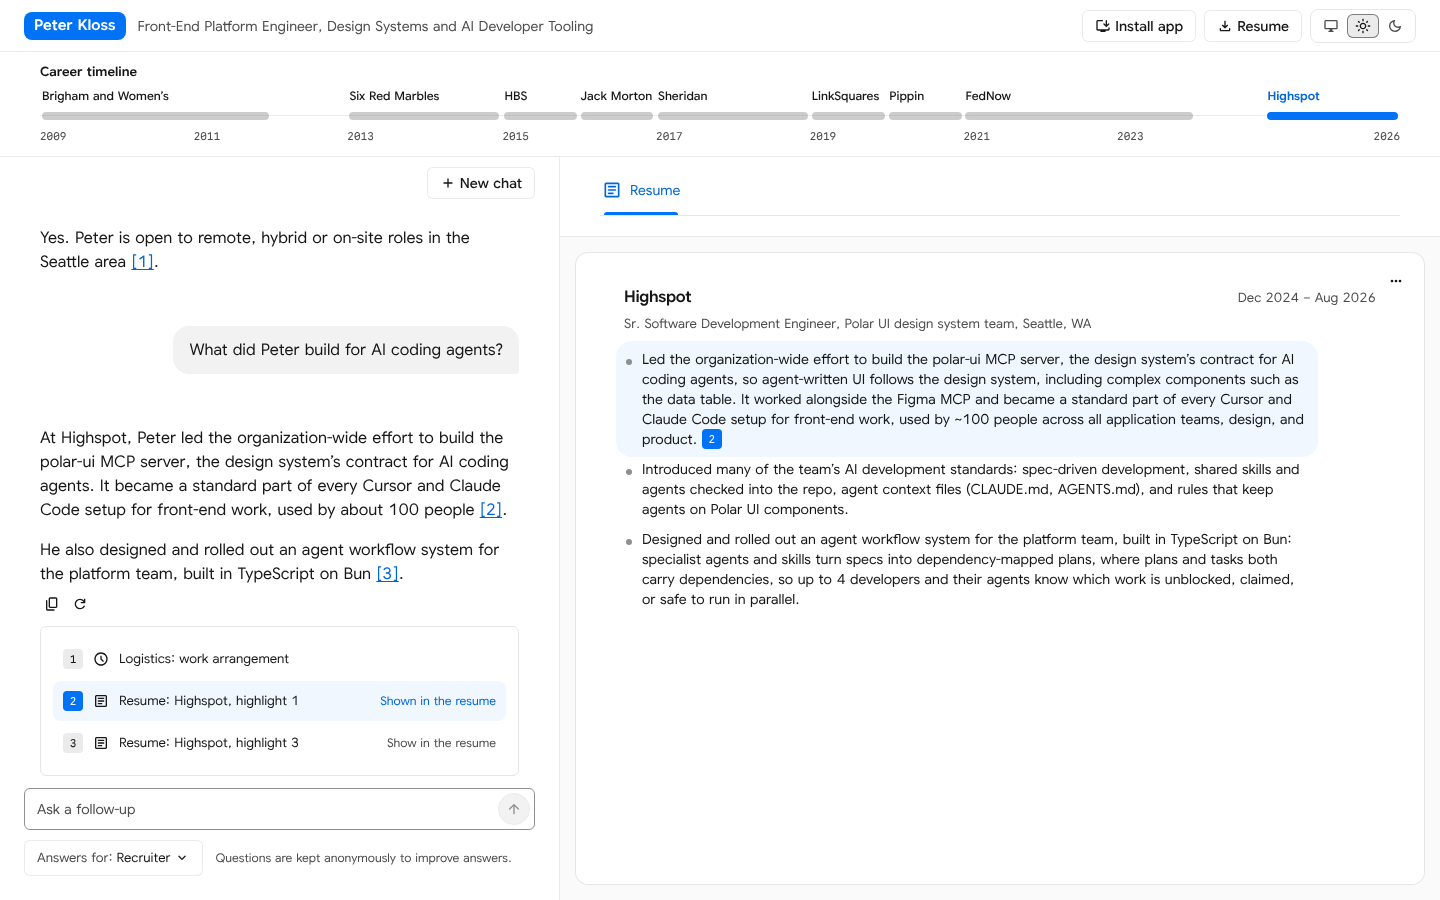
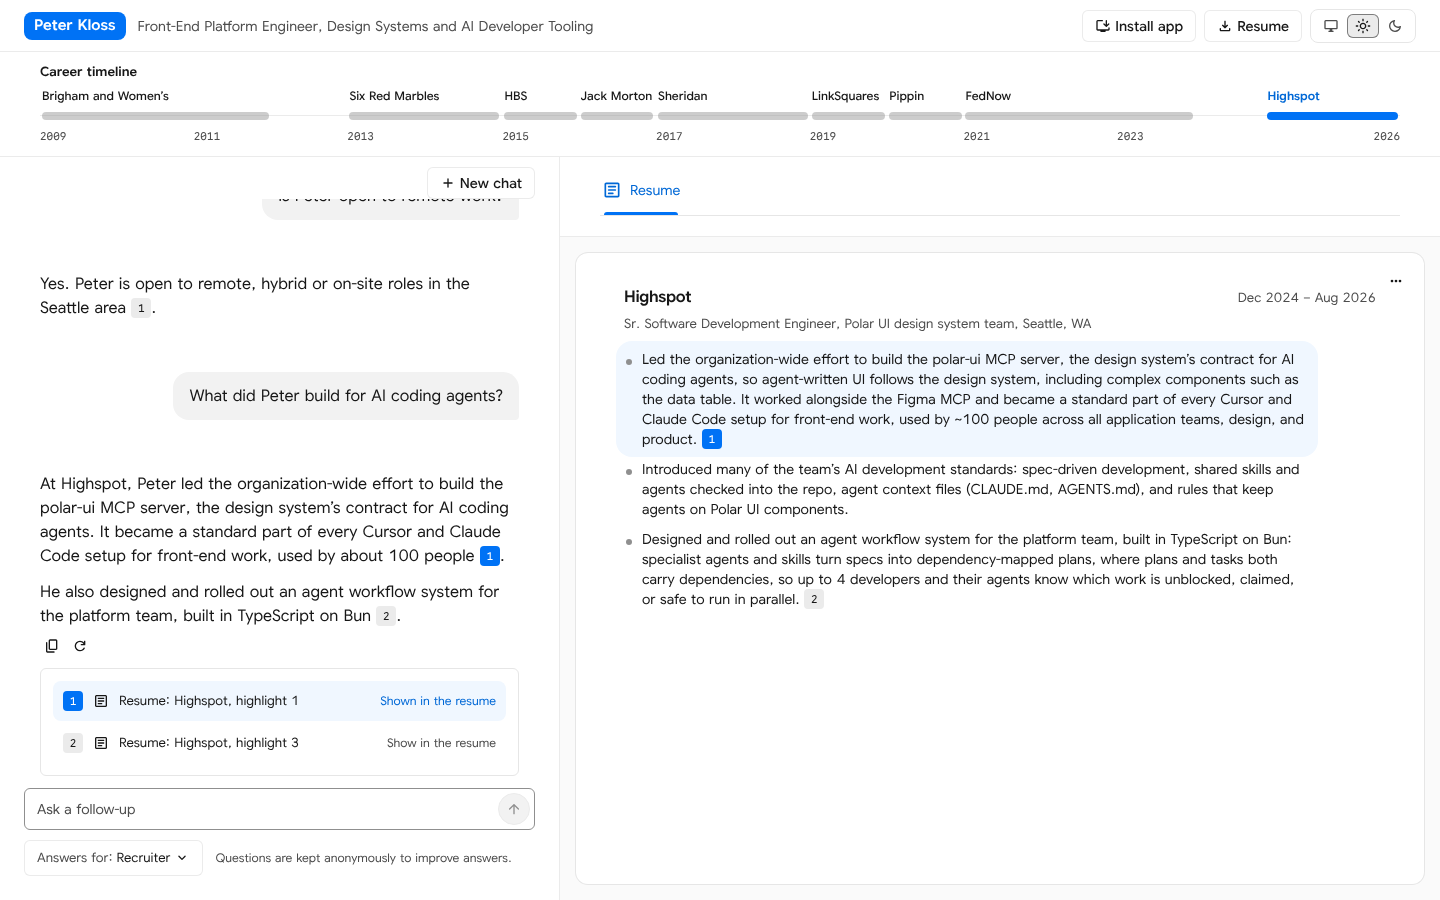
docs(design): update the mockup images to canvas version 45
The boards now follow the amended specs: citations numbered per answer,
the limit and rate-limit states, the not-found page on desktop and
phone, "Answers for" on the phone boards, no grab handles on sheets,
and the singular audience labels. The new texts are proposals; all of
it waits for Peter's approval with the amended specs.

Claude-Session: https://claude.ai/code/session_014BSX4WgxM1CCuuA9ppYHQV

Changed region(s): [[0.0312, 0.4356, 0.375, 0.7467], [0.0312, 0.2489, 0.3125, 0.3733], [0.125, 0.3733, 0.3438, 0.4044]]

diff --git a/docs/design/mockups/README.md b/docs/design/mockups/README.md
@@ -11,6 +11,17 @@ Updated later on 2026-10-27 (canvas version 44; [interview record](../interview-
 - The conversation board shows the resume card.
 - The "Welcome back" notice is gone.
 
+Updated again on 2026-10-27 after the spec reviews (canvas version 45; [interview record](../interview-2026-10-26.md) rows 133 and 136). These changes wait for Peter's approval with the amended specs:
+
+- Each answer numbers its own citations from 1, and its card lists only its own citations (row 133). Citation numbers in answers are drawn as the citation buttons on every board.
+- In the resume, every highlight the latest answer cites shows its number; only the opened one is tinted, with a blue number.
+- The audience lines read "Manager:" and "Recruiter:".
+- The phone boards show the "Answers for" select and the anonymous-log line under the input.
+- The phone sheets have no grab handle: the design system's drawer has no swipe to close.
+- New input states: limit reached for the day and for the month, and "Too many questions". Their texts are proposals for Peter to approve.
+- A new not-found page, desktop and phone. It has no script, so it follows the system's light or dark setting, not the visitor's own choice. Its text is a proposal for Peter to approve.
+- The steps' citation line also names Peter's logistics answers (a proposal).
+
 The mockups were made on a private Claude Design canvas, "Resume site mockups", with Peter's ACME design system 0.3.2. These images are rendered from the canvas boards. The board sources are on the branch [`prototype/site-mockups`](https://github.com/loriensleafs/resume/tree/prototype/site-mockups/prototypes/site-mockups), not on `main`, because they open only inside the canvas.
 
 The choices behind each view are in the [interview record](../interview-2026-10-26.md), rows 21 to 75, and in decisions [0015](../../decisions/0015-sources-on-demand.md) to [0019](../../decisions/0019-wider-chat-scope.md).
@@ -23,6 +34,7 @@ The choices behind each view are in the [interview record](../interview-2026-10-
 | After a question, source open | The conversation at the latest answer: the steps line, an answer with citations, Copy and Retry, the citations card, follow-up questions, the scope chip inside the input, and the cited source open in a tab with its passage marked | [image](answer-with-source-light.png) | [image](answer-with-source-dark.png) |
 | Returning visitor | The restored conversation, shown at the latest answer, with no notice | [image](returning-visitor-light.png) | [image](returning-visitor-dark.png) |
 | Installed app | The site in its own window, with the PK icon in the title bar | [image](installed-app-light.png) | [image](installed-app-dark.png) |
+| Page not found | The static not-found page: the 404 status, a heading, one line and links to the chat and to the resume | [image](page-not-found-light.png) | [image](page-not-found-dark.png) |
 
 ## Phone
 
@@ -33,12 +45,13 @@ The choices behind each view are in the [interview record](../interview-2026-10-
 | Source from a citation | The cited passage in a sheet over the conversation | [image](phone-source-light.png) | [image](phone-source-dark.png) |
 | Install offer | The install sheet | [image](phone-install-offer-light.png) | [image](phone-install-offer-dark.png) |
 | New chat | The confirmation before the conversation is deleted | [image](phone-new-chat-light.png) | [image](phone-new-chat-dark.png) |
+| Page not found | The not-found page on a phone | [image](phone-page-not-found-light.png) | [image](phone-page-not-found-dark.png) |
 
 ## States and parts
 
 | Board | What it shows | Light | Dark |
 | --- | --- | --- | --- |
-| Chat input states | Empty, ready, answering, answering with a queued question, stopped, offline with a queued question, error, "Answers for" opened, and "Answers for" on a phone | [image](chat-input-states-light.png) | [image](chat-input-states-dark.png) |
+| Chat input states | Empty, ready, answering, answering with a queued question, stopped, offline with a queued question, error, "Answers for" opened, "Answers for" on a phone, limit reached for the day and for the month, and too many questions | [image](chat-input-states-light.png) | [image](chat-input-states-dark.png) |
 | Conversation states | Question and answer actions, a long question, scrolling back to the latest message, the answer steps while answering, done and opened, and asking for the resume (the resume card) | [image](conversation-states-light.png) | [image](conversation-states-dark.png) |
 | Career timeline states | The timeline band's states | [image](career-timeline-states-light.png) | [image](career-timeline-states-dark.png) |
 | Career timeline on one line | The layout options; Peter chose E, the full-width band | [image](career-timeline-options-light.png) | |

diff --git a/docs/STATUS.md b/docs/STATUS.md
@@ -9,7 +9,7 @@ Updated 2026-10-27. This file is the one current handoff. A fresh session resume
 - **Decided 2026-10-26 and 2026-10-27:** deep dives become sources the chat opens on demand ([0015](decisions/0015-sources-on-demand.md)); two layers, a cached core in every request and full sources read through a server tool ([0016](decisions/0016-two-layer-knowledge.md)); the visitor's session is saved on their device with a "New chat" control ([0017](decisions/0017-saved-visitor-session.md)); the site lives at peterkloss.dev, with pkloss.dev and pwk.dev redirecting to it ([0018](decisions/0018-domains.md)). Also recorded (interview rows 29 and 30): the site offers to install itself and opens as a standalone app, and it needs an app icon. Research: [11](research/11-knowledge-tooling.md) (TanStack AI and Vercel's AI tools).
 - **Interview answers:** the chat history keeps no question-dialog answers. Peter supplied his own copy of the 2026-10-26 interview on 2026-10-27; it is kept word for word on this chat's private workspace branch (claude-sessions, `.scratch/resume/`), never in this repository, because it holds an internal Highspot link. Raw interview answers move to the private repo `loriensleafs/resume-private`, folder `interviews/`, once Peter creates it (row 129, [0024](decisions/0024-private-interview-repo.md)). His answers there come to about 2,560 words; the nine deep dives (3,924 words) keep nearly every fact from them, so more depth needs new material.
 - **Gathering method (Peter, 2026-10-27):** long-form interviews, one topic at a time, in normal chat messages (typed or spoken), never the question dialog. Each answer is saved word for word as a source file before anything is written from it.
-- **Mockups:** approved by Peter on 2026-10-27 ("I think this all looks pretty good"; interview row 75). Images of every board, light and dark, are in [docs/design/mockups/](design/mockups/README.md); the board sources and the export script are on the branch `prototype/site-mockups`. The private Design canvas "Resume site mockups" (version 42) stays the working copy. The choices behind the views are in the [interview record](design/interview-2026-10-26.md), rows 21 to 75, and the [site concepts](design/site-concepts-2026-10-26.md). Row 63, artifact cards in the chat, is settled by row 81: the resume card is the only card.
+- **Mockups:** approved by Peter on 2026-10-27 ("I think this all looks pretty good"; interview row 75). Images of every board, light and dark, are in [docs/design/mockups/](design/mockups/README.md); the board sources and the export script are on the branch `prototype/site-mockups`. The private Design canvas "Resume site mockups" (version 45, updated after the spec reviews and waiting for Peter's approval) stays the working copy. The choices behind the views are in the [interview record](design/interview-2026-10-26.md), rows 21 to 75, and the [site concepts](design/site-concepts-2026-10-26.md). Row 63, artifact cards in the chat, is settled by row 81: the resume card is the only card.
 - **Spec:** the updated [SPEC-knowledge](../spec/SPEC-knowledge.md) is approved (2026-10-27): the core with a catalog, sources split into cited passages, the interview rules and six subjects. Decision [0019](decisions/0019-wider-chat-scope.md) widens the chat to career, working style, stories, opinions, side projects and skills.
 - **SPEC-chat approved (task 14, 2026-10-27):** [SPEC-chat](../spec/SPEC-chat.md). Each turn is a fixed workflow with one bounded read loop ([0021](decisions/0021-chat-turn-workflow.md)); an anonymous question log ([0020](decisions/0020-anonymous-question-log.md)); the fit check; the whole resume opens beside the chat when asked; test seams are the `/api/chat` handler with TanStack AI's fake model and the browser test, plus `bun run evals` on Peter's approval (interview rows 79 to 84). SPEC-site gained the resume view's ⋯ download menu, `openResume()`, an optional citation number and an app-bar end slot; SPEC-knowledge lets logistics answers be cited.
 - **Spec audit (2026-10-27, interview rows 85 to 101):** Peter asked whether the right brain skills were loaded. An audit with the missing skills, the design system's skills and its MCP server amended SPEC-chat, SPEC-site and the glossary:
